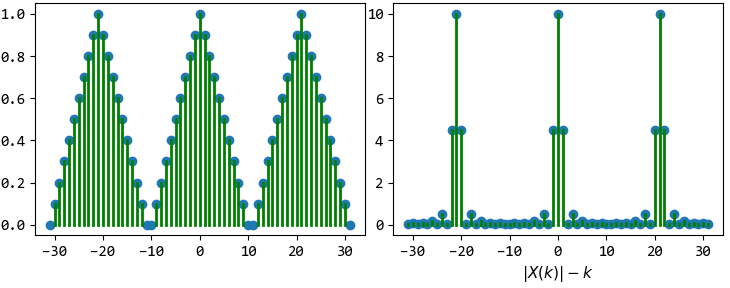
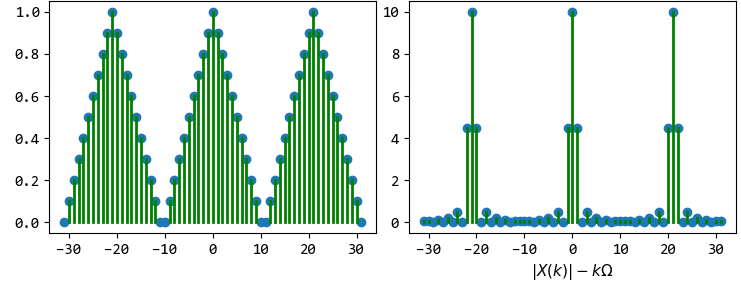
feat(ln-ss): add dtft and idtft

Changed region(s): [[0.0, 0.0, 1.0, 0.9964]]

diff --git a/test/fourier-test.py b/test/fourier-test.py
@@ -11,10 +11,11 @@ sys.path.append(os.getcwd() + '/../')
 
 import lnss.fourier as fourier
 import numpy as np
+import sympy as sy
 from sympy import Piecewise, integrate, fourier_series, symbols, DiracDelta
 from sympy import Sum, exp, cos, sin, pi, I, Abs, oo
 from sympy.plotting import plot
-from sympy.abc import t, w, n, k
+from sympy.abc import t, w, W, n, k
 import matplotlib as mpl
 import matplotlib.pyplot as plt
 import moviepy.editor as mpy
@@ -58,6 +59,7 @@ ax.set_xlabel(r'$|F(n)|-n\omega$')
 tau = 1
 f = Piecewise((0, t < -tau/2.0), (1, (-tau/2.0 <= t) & (t <= tau/2.0)), (0, t > tau/2.0))
 fw = fourier.ft(f)
+# fw = sy.fourier_transform(f, t, w)
 print('fw : ', [Abs(fw.subs(w, j).evalf()) for j in range(5)])
 print('Ref: ', [Abs((tau * sin(j * tau / 2) / (j * tau / 2)).evalf()) for j in range(5)])
 fig = plt.figure('Fourier transform')
@@ -70,7 +72,9 @@ ax.plot(f_range, [Abs(fw.subs(w, j).evalf()) for j in f_range])
 ax.set_xlabel(r'$|F(\omega)|-\omega$')
 """
 
+
 #%% DFS
+"""
 # 三角波序列，数字周期N=21
 N = 21
 xn = Piecewise((n/10+1, n < 0), (1-n/10, n >= 0))
@@ -79,22 +83,48 @@ print('xn : ', [xn.subs(n, j).evalf() for j in range(5)])
 print('xk : ', [Abs(xk.subs(k, j).evalf()) for j in range(5)])
 fig = plt.figure('Discrete Fourier Series')
 fig.canvas.mpl_connect('key_press_event', on_key)
-x_range = np.arange(-(3*N//2), (3*N)//2+1)
+x_range = np.arange(-(N//2), N//2+1)
 ax = fig.add_subplot(1, 2, 1)
-xn_points = [xn.subs(n, j).evalf() for j in np.arange(-(N//2), N//2+1)]*3
-ax.plot(x_range, xn_points, 'o')
-for i,j in enumerate(x_range):
+xn_range = np.append(np.append(x_range-N, x_range), x_range+N)
+xn_points = [xn.subs(n, j).evalf() for j in x_range]*3
+ax.plot(xn_range, xn_points, 'o')
+for i,j in enumerate(xn_range):
     ax.plot([j, j], [0, xn_points[i]], 'g', linewidth=2)
 ax = fig.add_subplot(1, 2, 2)
-xk_points = [Abs(xk.subs(k, j).evalf()) for j in x_range]
-ax.plot(x_range, xk_points , 'o')
-for i,j in enumerate(x_range):
+xk_points = [Abs(xk.subs(k, j).evalf()) for j in x_range]*3
+ax.plot(xn_range, xk_points , 'o')
+for i,j in enumerate(xn_range):
     ax.plot([j, j], [0, xk_points[i]], 'g', linewidth=2)
-ax.set_xlabel(r'$|X(k)|-k$')
-
+ax.set_xlabel(r'$|X(k)|-k\Omega$')
+plt.show()
+sys.exit()
+"""
 
 #%% DTFT
-# fig = plt.figure('Discrete Time Fourier Transform')
+"""
+# 三角波序列
+xn = Piecewise((0, (n < -1) | (n > 1)), (n+1, n < 0), (1-n, n >= 0))
+# xW = fourier.dtft(xn)
+xW = sy.fourier_transform(xn, n, W) # 因为dtft不能计算，使用ft来绘图
+print('xn: ', [xn.subs(n, j).evalf() for j in range(5)])
+print('xW: ', [Abs(xW.subs(W, j).evalf()) for j in range(5)])
+fig = plt.figure('Discrete Time Fourier Transform')
+fig.canvas.mpl_connect('key_press_event', on_key)
+ax = fig.add_subplot(1, 2, 1)
+xn_range = np.linspace(-2, 2, 50)
+xn_points = [xn.subs(n, j).evalf() for j in xn_range]
+ax.plot(xn_range, xn_points, 'o')
+for i,j in enumerate(xn_range):
+    ax.plot([j, j], [0, xn_points[i]], 'g', linewidth=2)
+ax = fig.add_subplot(1, 2, 2)
+xW_range = (np.linspace(-2*5, 2*5, 250))
+xW_points = [Abs(xW.subs(W, j).evalf()) for j in xn_range]*5
+ax.plot(xW_range, xW_points)
+ax.set_xlabel(r'$|X(e^{j\Omega})|-\Omega$')
+"""
+
+
+#%% DFT and FFT
 
 plt.show()
 sys.exit()

diff --git a/lnss/fourier.py b/lnss/fourier.py
@@ -35,9 +35,9 @@ def fs(ft, T:float, r:tuple=()):
         print('f1 : ', Abs(fn.subs(n, 1).evalf()))
 
     :Parameters:
-        - ft: 连续周期函数，函数只能有1个自变量
-        - T: 函数周期
-        - r: 函数一个周期的范围
+        - ft: 连续周期信号，只能有1个自变量
+        - T: 信号周期
+        - r: 信号一个周期的范围
 
     :Returns: Fourier级数系数表达式，自变量符号为n
     """
@@ -65,9 +65,9 @@ def ft(ft):
         print(Abs(fw.subs(w, 0).evalf()))
 
     :Parameters:
-        - ft: 连续非周期函数，函数只能有1个自变量
+        - ft: 连续非周期信号，信号只能有1个自变量
 
-    :Returns: 频谱密度函数，自变量符号为omega(用w表示)
+    :Returns: 频谱密度函数（连续非周期信号），自变量符号为omega(用w表示)
     """
     t = tuple(ft.free_symbols)[0]
     w = sy.symbols('w')
@@ -79,14 +79,14 @@ def ift(fw):
     """傅里叶逆变换
 
     :Parameters:
-        - fw: 频谱密度函数（连续非周期函数），函数只能有1个自变量
+        - fw: 频谱密度函数（连续非周期信号），信号只能有1个自变量
 
-    :Returns: 返回原函数，函数自变量变为t
+    :Returns: 返回原信号，信号自变量变为t
     """
     w = tuple(fw.free_symbols)[0]
     t = sy.symbols('t')
     r = (w, -sy.oo, sy.oo)
-    ft = (1.0 / 2 * sy.pi) * sy.integrate(fw * sy.exp(sy.I * w * t), r)
+    ft = (1.0 / (2 * sy.pi)) * sy.integrate(fw * sy.exp(sy.I * w * t), r)
     return ft
 
 def dfs(xn, N:int, r:tuple=()):
@@ -140,14 +140,28 @@ def dtft(xn):
     :Parameters:
         - xn: 离散非周期序列，序列只能有1个自变量
 
-    :Returns: 序列频谱（周期连续信号），自变量为Omega(用W表示)
+    :Returns: 频谱密度函数（周期连续信号），自变量为Omega(用W表示)
     """
+    raise Exception("Can't sum from -oo to oo")
     n = tuple(xn.free_symbols)[0]
     W = sy.symbols('W')
+    r = (n, -sy.oo, sy.oo)
+    xW = sy.Sum(xn * sy.exp(-sy.I * W * n), r)
+    return xW
 
 def idtft(xW):
-    W = tuple(xn.free_symbols)[0]
+    """离散时间傅里叶逆变换
+
+    :Parameters:
+        - xW: 频谱密度函数（周期连续信号），信号只能有一个自变量
+
+    :Returns: 原信号序列（离散非周期序列），序列自变量为n
+    """
+    W = tuple(xW.free_symbols)[0]
     n = sy.symbols('n')
+    r = (W, 0, 2 * sy.pi)
+    xn = (1.0 / (2 * sy.pi)) * sy.integrate(xW * sy.exp(sy.I * W * n), r)
+    return xn
 
 def dft():
     pass

diff --git a/doc/source/fourier.rst b/doc/source/fourier.rst
@@ -2,7 +2,6 @@
 Fourier
 =======
 
-
 傅里叶级数(Fourier Series)
 --------------------------
 
@@ -63,7 +62,7 @@ FS用于连续周期信号。
 单位脉冲函数为：
 
 ..  math::
-    \delta (t) = 
+    \delta (t) =
     \begin{cases}
     0, t \neq 0 \\
     \infty, t = 0
@@ -92,9 +91,9 @@ FS用于连续周期信号。
 ..  image:: fourier/sample.png
     :align: center
 
-当采样频率大于信号最大频率 :math:`\omega_m` 的两倍时，可以从采样信号准确地恢复原信号。
+当采样频率大于信号最大频率 :math:`\omega_m` 的两倍时，可以从采样信号准确地恢复原信号（取一个频谱周期进行傅里叶逆变换）。
 
-对于一个离散周期信号有：
+连续信号经采样变成离散周期信号有：
 
 ..  math::
     y                 & = f(t) \\
@@ -107,14 +106,14 @@ FS用于连续周期信号。
 离散傅里叶级数(Discrete Time Fourier Series)
 --------------------------------------------
 
-离散周期信号（周期序列） :math:`x(n)` 的周期为 :math:`N` ，其谱谱也是周期离散信号，且周期为 :math:`2 \pi` 。
+离散周期信号（周期序列）的频谱也是周期离散信号，且频谱周期为 :math:`2 \pi` 。
 
 DFS公式如下：
 
 ..  math::
     W_N^{kn} &= e^{-j \frac{2 \pi}{N} k n} \\
-    X(k) &= DFS[x(n)] = \sum_{n=0}^{N-1} x(n) W_N^{nk} \\
-    x(n) &= DFS^{-1}[X(k)] = \frac{1}{N} \sum_{k=0}^{N-1} X(k) W_N^{-nk}
+    X(k \Omega) &= X(k) = DFS[x(n)] = \sum_{n=0}^{N-1} x(n) W_N^{nk} \\
+    x(n) &= DFS^{-1}[X(k \Omega)] = \frac{1}{N} \sum_{k=0}^{N-1} X(k  \Omega) W_N^{-nk}
 
 ..  image:: fourier/Discrete_Fourier_Series.png
     :align: center
@@ -129,8 +128,8 @@ DFS公式如下：
 DTFT公式如下：
 
 ..  math::
-    X(\Omega) &= DTFT[x(n)] = \sum_{n=-\infty}^{\infty} x(n) e^{-j \Omega n} \\
-    x(n) &=  DTFT^{-1}[X(\Omega)] = \frac{1}{2 \pi} \int_0^{2 \pi} X(\Omega) e^{j \Omega n} d \Omega
+    X(e^{j\Omega}) &= DTFT[x(n)] = \sum_{n=-\infty}^{\infty} x(n) e^{-j \Omega n} \\
+    x(n) &=  DTFT^{-1}[X(e^{j\Omega})] = \frac{1}{2 \pi} \int_0^{2 \pi} X(e^{j\Omega}) e^{j \Omega n} d \Omega
 
 ..  image:: fourier/Discrete_Time_Fourier_Transform.png
     :align: center
@@ -154,16 +153,17 @@ DTFT公式如下：
 | 离散-周期   | 周期-离散   | ``DFS``                                                                                    |
 |             |             |                                                                                            |
 |             |             | - :math:`W_N^{kn} = e^{-j \frac{2 \pi}{N} k n} \\[2ex]`                                    |
-|             |             | - :math:`X(k) = \sum_{n=0}^{N-1} x(n) W_N^{nk} \\[2ex]`                                    |
-|             |             | - :math:`x(n) = \frac{1}{N} \sum_{k=0}^{N-1} X(k) W_N^{-nk}`                               |
+|             |             | - :math:`X(k  \Omega) = \sum_{n=0}^{N-1} x(n) W_N^{nk} \\[2ex]`                            |
+|             |             | - :math:`x(n) = \frac{1}{N} \sum_{k=0}^{N-1} X(k \Omega) W_N^{-nk}`                        |
 +-------------+-------------+--------------------------------------------------------------------------------------------+
 | 离散-非周期 | 周期-连续   | ``DTFT``                                                                                   |
 |             |             |                                                                                            |
-|             |             | - :math:`X(\Omega) = \sum_{n=-\infty}^{\infty} x(n) e^{-j \Omega n} \\[2ex]`               |
-|             |             | - :math:`x(n) = \frac{1}{2 \pi} \int_0^{2 \pi} X(\Omega) e^{j \Omega n} d \Omega`          |
+|             |             | - :math:`X(e^{j\Omega}) = \sum_{n=-\infty}^{\infty} x(n) e^{-j \Omega n} \\[2ex]`          |
+|             |             | - :math:`x(n) = \frac{1}{2 \pi} \int_0^{2 \pi} X(e^{j\Omega}) e^{j \Omega n} d \Omega`     |
 +-------------+-------------+--------------------------------------------------------------------------------------------+
-    
-    
+
+
+----
 
 
 离散傅里叶变换(Discrete Fourier Transform)
@@ -174,15 +174,19 @@ DTFT公式如下：
 --------------------------------------
 
 
-..  根据采样定理：采样频率fs必须 >= 原信号最高频率的 二倍
-    也即：采样信号号经过DFT后，能还原的最高频率为fs / 2
-    所以：频谱图中横坐标的范围为[-fs/2, fs/2]，且频谱是对称的，一般我们只用一半就可以
-    FFT结果任意一点的频率为：假设信号采样频率为fs，从采样定理可以知道，信号抽样后，抽样信号的频谱是周期谱，其频谱的周期是抽样频率fs，因此，对信号做FFT时，无论你取多少点，其分析的频率范围就是0~fs，所以，如果你做N点的FFT（其实是离散傅里叶变换），则，FFT结果的两点之间的频率间隔是fs/N，这样，任一点k（k=0~N-1)代表的频率就是k*fs/N。另外，这N个点的FFT值是以N/2为对称的，所以，一般真正用到的只有N/2个点。N点取的大只说明谱线密一些而已，注意：采样定理非常重要啊！
+..  根据采样定理：采样频率f必须 >= 原信号最高频率的 二倍
+    也即：采样信号号经过DFT后，能还原的最高频率为f / 2
+    所以：频谱图中横坐标的范围为[-f/2, f/2]，且频谱是对称的，一般用正频段就可以
+    FFT结果任意一点的频率为：假设信号采样频率为f，从采样定理可以知道，信号抽样后，抽样信号的频谱是周期谱，其频谱的周期是抽样频率f，因此，对信号做FFT时，无论你取多少点，其分析的频率范围就是0~f，所以，如果你做N点的FFT（其实是离散傅里叶变换），则，FFT结果的两点之间的频率间隔是f/N，这样，任一点k（k=0~N-1)代表的频率就是k*f/N。另外，这N个点的FFT值是以N/2为对称的，所以，一般真正用到的只有N/2个点。N点取的大只说明谱线密一些而已，注意：采样定理非常重要啊！
+
 
 :参考:
 
 - `傅里叶级数 <https://zh.wikipedia.org/wiki/%E5%82%85%E9%87%8C%E5%8F%B6%E7%BA%A7%E6%95%B0>`_
 - `傅里叶变换 <https://zh.wikipedia.org/wiki/%E5%82%85%E9%87%8C%E5%8F%B6%E5%8F%98%E6%8D%A2>`_
+
+
+----
 
 
 API
